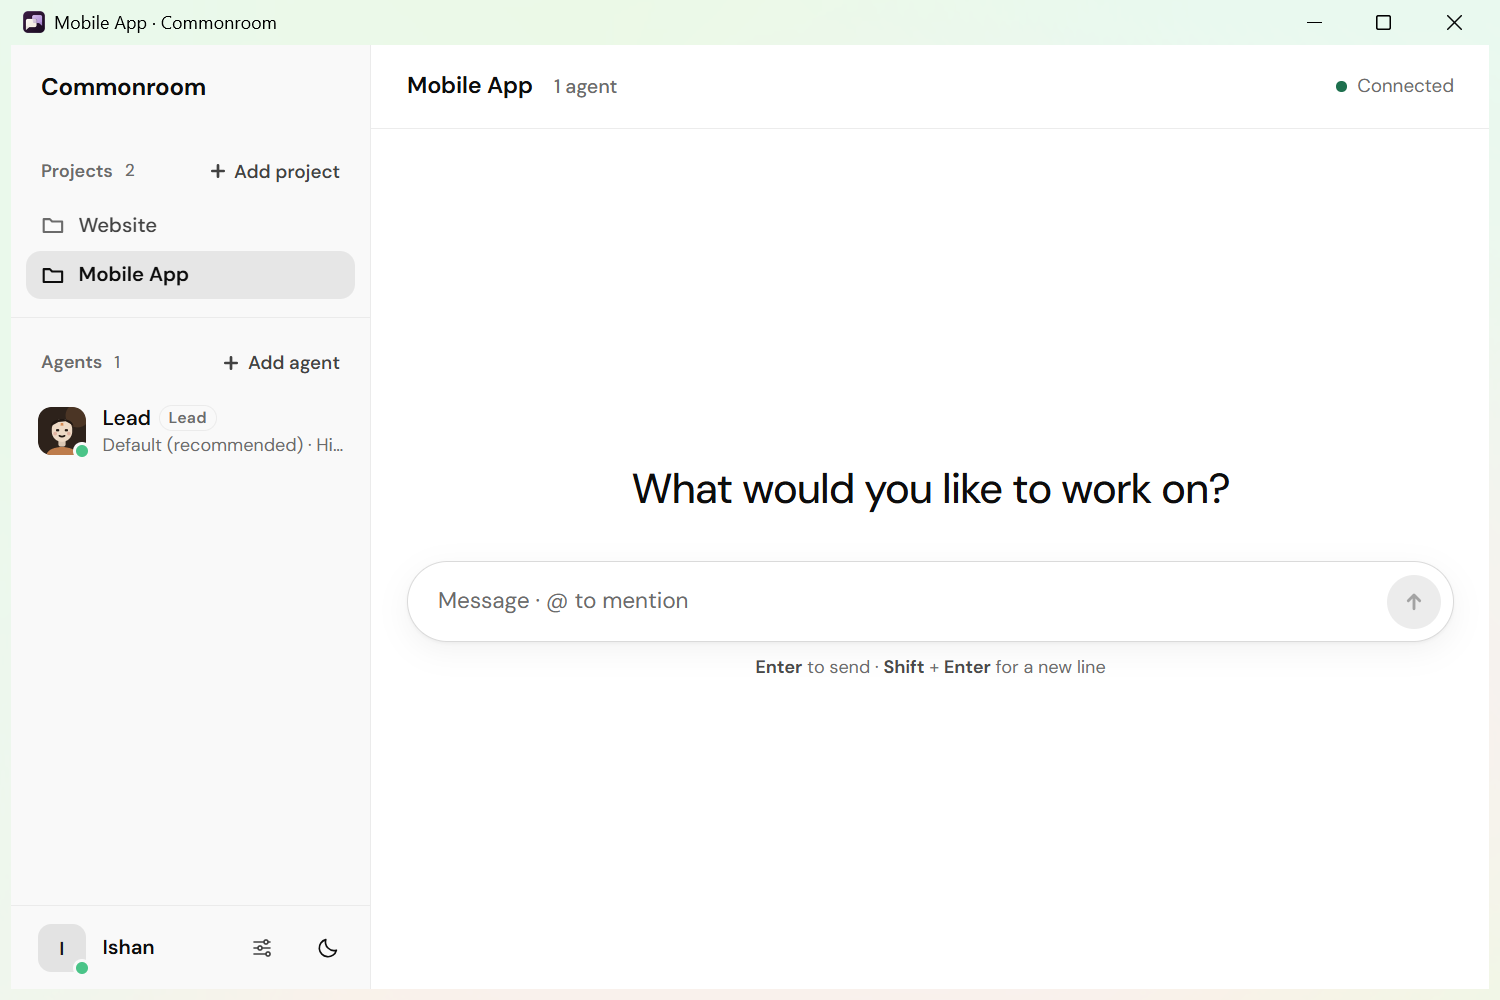
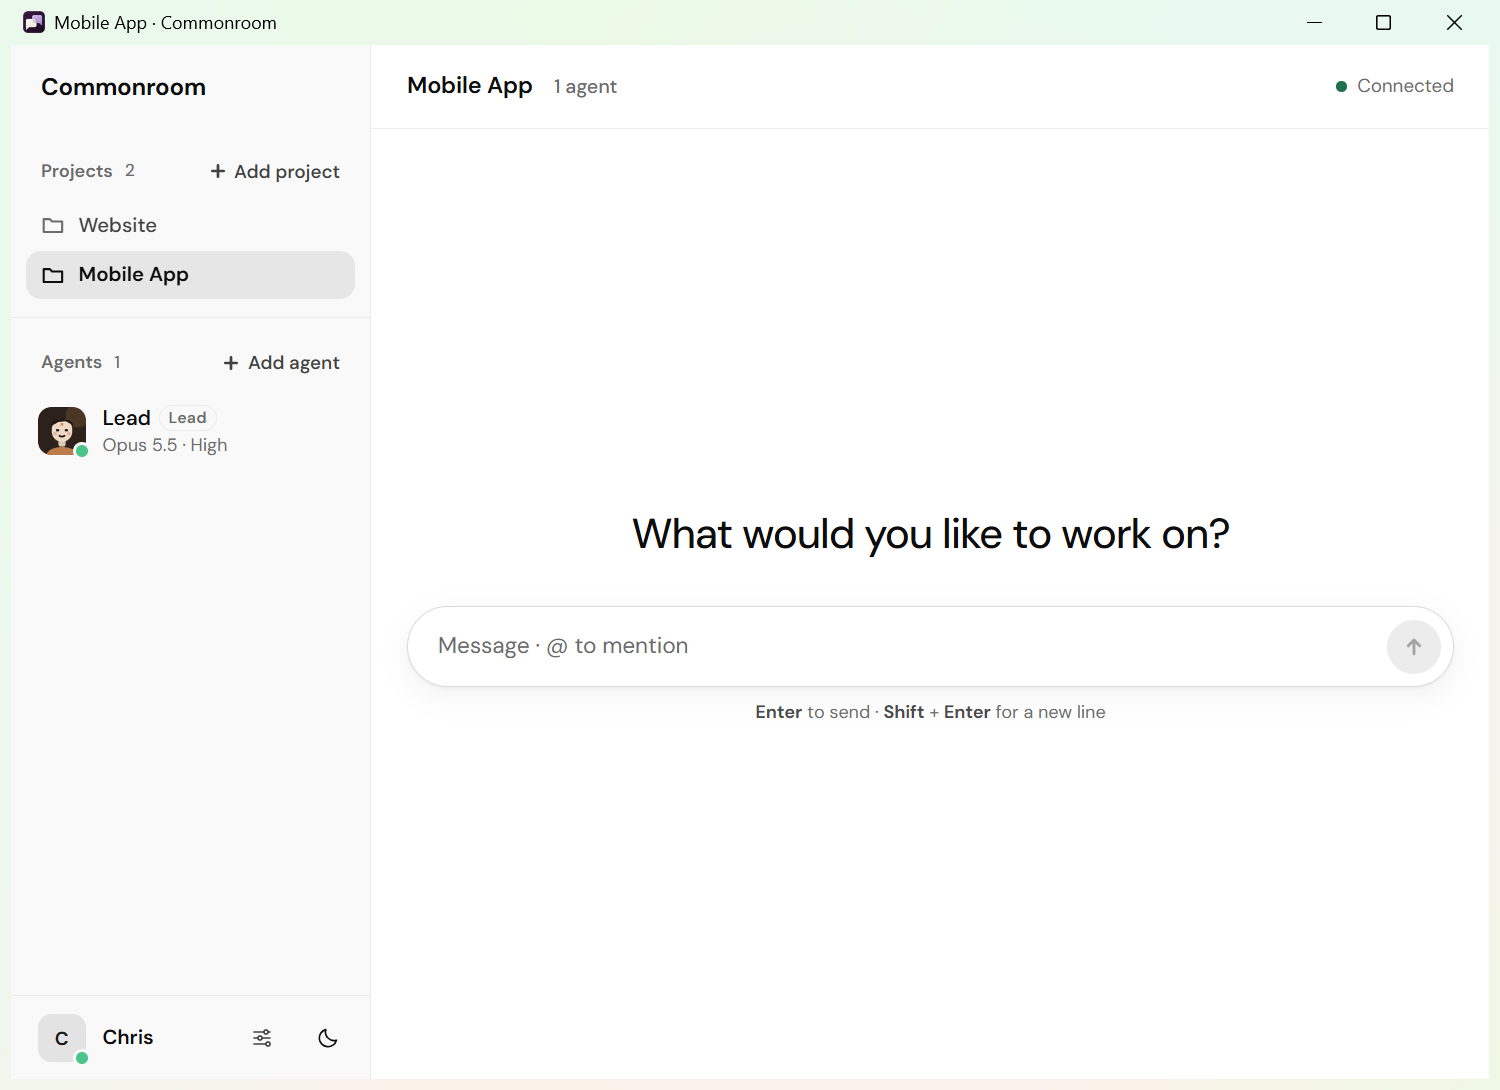
README: 30-second video at the top; screenshots show a generic user
Replaces the top screenshot with the promo video (link filled in once
uploaded) and re-shoots every README screenshot with the example user
Chris. Removes two unused screenshots.

diff --git a/README.md b/README.md
@@ -19,12 +19,8 @@ already have installed and signed in.
 ChatGPT or Google plans you already pay for through their official tools, so
 there are no keys to paste and no per-token bills.
 
-<picture>
-  <source media="(prefers-color-scheme: dark)" srcset="docs/images/room-dark.png">
-  <img src="docs/images/room.png" alt="A Commonroom project chat: a Claude Code lead and a Codex builder answering in the same conversation" width="900">
-</picture>
-
-<!-- Video walkthrough coming soon -->
+<!-- 30-second walkthrough. GitHub plays a bare user-attachments link as an inline video. -->
+VIDEO_URL_PLACEHOLDER
 
 ## What it does
 
